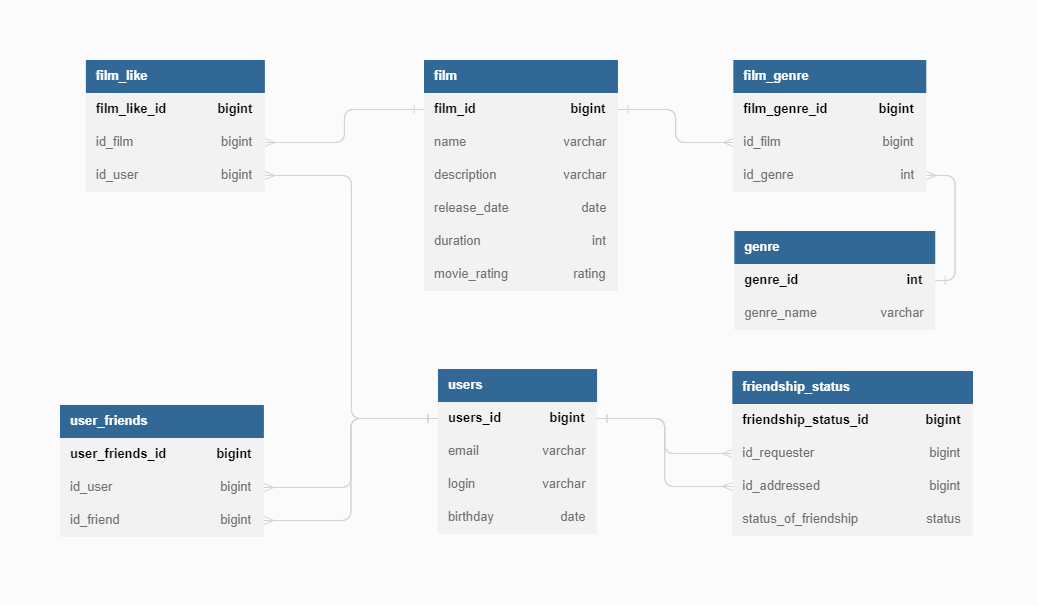
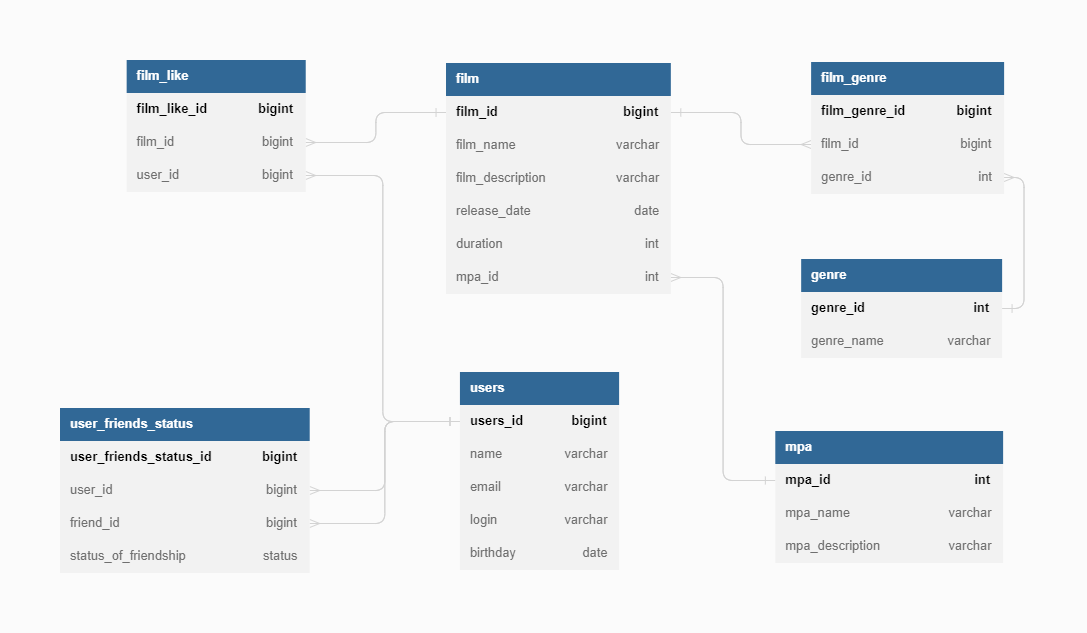
fix: readme correction

diff --git a/README.md b/README.md
@@ -1,25 +1,19 @@
 Схема базы данных
 
-![database diagram](https://github.com/IvanMartynovLETI/java-filmorate/blob/add-database/database_diagram.png)
+![Диаграмма базы данных](/database_diagram.png)
 
 Примечания:
-1. Типы status и rating - enum.
-2. В таблице friendship_status id_requester - id пользователя, инициировавшего добавление в друзья, 
-   id_addressed - id пользователя, подтверждающего статус дружбы.
+1. В таблице user_friends_status тип status - enum.
+2. В этой же таблице user_id - id пользователя, инициировавшего добавление в друзья, 
+   friend_id - id пользователя, подтверждающего статус дружбы.
 
 
 Пример запроса к базе, возвращающего логины пользователей, которые отправили запрос на добавление в друзья к
 пользователю с логином login3 и статус дружбы которых не подтвержден:
-
-    SELECT u.login
-    FROM users as u
-    WHERE u.users_id IN (SELECT fs.id_requester
-                         FROM friendship_status AS fs
-                         WHERE fs.status_of_friendship='Requested' 
-                         AND fs.id_addressed IN (SELECT u.users_id 
-                                                 FROM users AS u
-                                                 WHERE u.login='login3'
-                                                 GROUP BY u.users_id
-                                                 )
-                         GROUP BY fs.id_requester)
-    GROUP BY u.login;
+    
+    SELECT DISTINCT
+           u.login
+    FROM users AS u
+    INNER JOIN user_friends_status AS ufs ON u.users_id = ufs.user_id
+    INNER JOIN users AS ua ON ua.users_id = ufs.friend_id
+    WHERE ufs.status_of_friendship = 'Requested' AND ua.login = 'login3';
